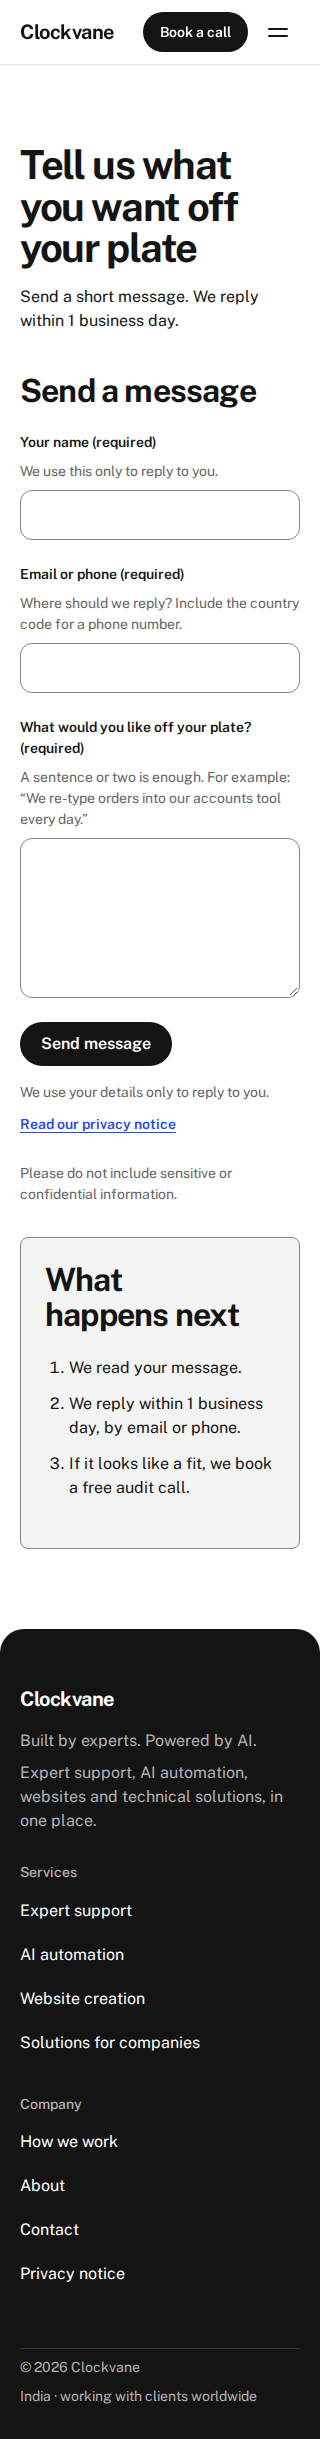
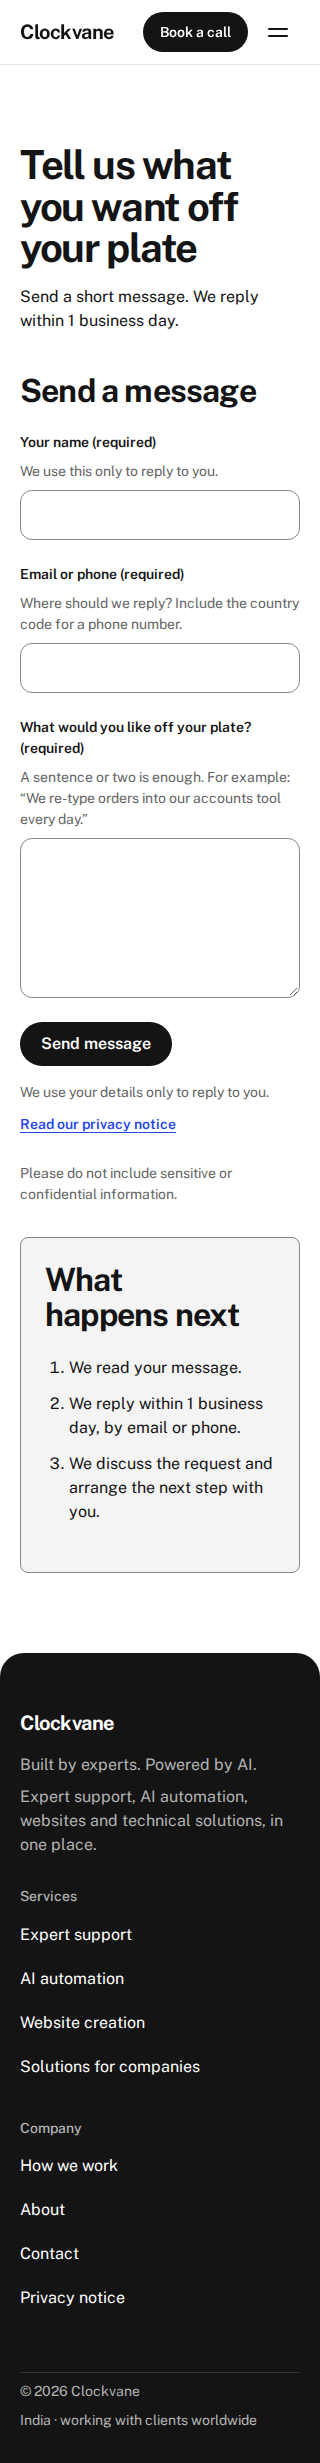
fix(design-system): address visibility coverage and review gaps
Verify hidden-tab pause and in-place resumption, report controller coverage, and guard production output against prototypes and missing motion chunks. Align call wording and document verification and follow-ups.

Agent-Role: sde3

diff --git a/tests/unit/scripts/motion.test.ts b/tests/unit/scripts/motion.test.ts
@@ -28,6 +28,7 @@ const $ = <T extends HTMLElement>(selector: string) =>
 async function load(reduced: boolean) {
   document.documentElement.className = '';
   document.documentElement.removeAttribute('data-paused');
+  document.documentElement.removeAttribute('data-hidden-tab');
   document.body.innerHTML = page;
   vi.stubGlobal(
     'matchMedia',
@@ -57,6 +58,7 @@ describe('motion controller', () => {
   beforeEach(() => vi.useFakeTimers());
   afterEach(() => {
     vi.useRealTimers();
+    vi.restoreAllMocks();
     vi.unstubAllGlobals();
   });
 
@@ -148,5 +150,39 @@ describe('motion controller', () => {
     disc.open = true;
     document.body.click();
     expect(disc.open).toBe(false);
+  });
+
+  it('freezes the demo in a hidden tab and resumes from the same elapsed position', async () => {
+    const hidden = vi.spyOn(document, 'hidden', 'get').mockReturnValue(false);
+    // Use the fake clock for elapsed time as well as interval scheduling.
+    vi.spyOn(performance, 'now').mockImplementation(() => Date.now());
+    const [seen] = await load(false);
+    const root = document.documentElement;
+    const demo = $('[data-demo]');
+    const prompt = $('[data-demo-prompt]');
+    seen?.([{ target: $('[data-demo-stage]'), isIntersecting: true }]);
+    await vi.advanceTimersByTimeAsync(600);
+    expect(prompt.firstElementChild?.textContent).toBe('Pro');
+    const frame = $('[data-demo-stage]').innerHTML;
+
+    hidden.mockReturnValue(true);
+    document.dispatchEvent(new Event('visibilitychange'));
+    expect(root.hasAttribute('data-hidden-tab')).toBe(true);
+    await vi.advanceTimersByTimeAsync(10000);
+    expect($('[data-demo-stage]').innerHTML).toBe(frame);
+    expect(demo.dataset.state).toBe('running');
+    expect($('[data-demo-status]').textContent).toBe('');
+
+    hidden.mockReturnValue(false);
+    document.dispatchEvent(new Event('visibilitychange'));
+    expect(root.hasAttribute('data-hidden-tab')).toBe(false);
+    expect($('[data-demo-stage]').innerHTML).toBe(frame);
+    await vi.advanceTimersByTimeAsync(900);
+    // About 1,500 ms of visible playback: neither restarted nor advanced by the hidden time.
+    expect(prompt.firstElementChild?.textContent).toBe('Prompt ');
+    expect(demo.dataset.state).toBe('running');
+    await vi.advanceTimersByTimeAsync(3100);
+    expect(demo.dataset.state).toBe('done');
+    expect($('[data-demo-status]').textContent).toBe('Finished.');
   });
 });

diff --git a/src/pages/og.png.ts b/src/pages/og.png.ts
@@ -4,21 +4,16 @@ import tokens from '../../docs/design/tokens.json';
 
 /** Original workflow motif, rasterized at build time for social-card compatibility. */
 export async function GET(): Promise<Response> {
-  const {
-    canvas: paper,
-    text: ink,
-    link: brass,
-    surface: paperDeep,
-  } = tokens.color.light;
+  const { canvas, text, link, surface } = tokens.color.light;
   const svg = `<svg xmlns="http://www.w3.org/2000/svg" width="1200" height="630" viewBox="0 0 1200 630">
-    <rect width="1200" height="630" fill="${paper.$value.hex}"/>
-    <path d="M240 315H960" stroke="${brass.$value.hex}" stroke-width="8"/>
-    <g fill="${paperDeep.$value.hex}" stroke="${ink.$value.hex}" stroke-width="6">
+    <rect width="1200" height="630" fill="${canvas.$value.hex}"/>
+    <path d="M240 315H960" stroke="${link.$value.hex}" stroke-width="8"/>
+    <g fill="${surface.$value.hex}" stroke="${text.$value.hex}" stroke-width="6">
       <rect x="160" y="235" width="160" height="160" rx="4"/>
       <circle cx="600" cy="315" r="80"/>
       <rect x="880" y="235" width="160" height="160" rx="4"/>
     </g>
-    <path d="m565 315 25 25 45-50" fill="none" stroke="${brass.$value.hex}" stroke-width="8"/>
+    <path d="m565 315 25 25 45-50" fill="none" stroke="${link.$value.hex}" stroke-width="8"/>
   </svg>`;
   const image = await sharp(Buffer.from(svg)).png().toBuffer();
   return new Response(new Uint8Array(image), {

diff --git a/tests/unit/build/budgets.test.ts b/tests/unit/build/budgets.test.ts
@@ -21,6 +21,10 @@ describe.skipIf(!existsSync(dist))('dist budgets', () => {
   const assets = (html: string, pattern: RegExp) =>
     [...html.matchAll(pattern)].map((m) => join(dist, m[1] ?? ''));
 
+  it('ships no throwaway prototypes under labs/', () => {
+    expect(existsSync(join(dist, 'labs'))).toBe(false);
+  });
+
   it('ships no PNG, JPEG or GIF from the pipeline, and each image ≤ 100 kB', () => {
     const generated = files.filter((file) => file.includes('/_astro/'));
     expect(generated.filter((f) => /\.(png|jpe?g|gif)$/.test(f))).toEqual([]);
@@ -35,9 +39,11 @@ describe.skipIf(!existsSync(dist))('dist budgets', () => {
     const styles = assets(html, /<link[^>]+href="(\/[^"]+\.css)"/g);
     const sum = (list: string[]) => list.reduce((n, f) => n + gz(f), 0);
     expect(sum(scripts), 'P-4 script').toBeLessThanOrEqual(50 * KB);
-    for (const script of scripts.filter((f) =>
+    const motionScripts = scripts.filter((f) =>
       /MotionScript|motion\./.test(f),
-    )) {
+    );
+    expect(motionScripts, 'P-4 one shared motion controller').toHaveLength(1);
+    for (const script of motionScripts) {
       expect(gz(script), 'P-4 motion controller').toBeLessThanOrEqual(5 * KB);
     }
     expect(sum(styles), 'P-5 CSS').toBeLessThanOrEqual(40 * KB);

diff --git a/src/content/how-we-work.ts b/src/content/how-we-work.ts
@@ -2,14 +2,14 @@
 export const howWeWork = {
   title: 'How we work: from first call to handover',
   description:
-    'Four steps from a free audit call to a working system. Fixed-price packages, an optional retainer and clear handover. Book a free audit call.',
+    'See how we arrange expert support and take projects from a first conversation to handover, with scope and pricing agreed before work begins.',
   heading: 'How we work',
   lede: 'You should know what happens next at every stage, and what it costs before we start.',
   processHeading: 'From first call to delivery',
   steps: [
     {
-      title: 'Free audit call.',
-      body: 'We look at one slow process and listen.',
+      title: 'Talk about the need.',
+      body: 'Tell us what you want to achieve and what is getting in the way.',
       output: 'You get an honest view of what is worth automating.',
     },
     {

diff --git a/vitest.config.ts b/vitest.config.ts
@@ -7,9 +7,15 @@ export default getViteConfig(
       include: ['tests/{unit,infra}/**/*.test.ts'],
       coverage: {
         provider: 'v8',
-        include: ['site.config.ts', 'src/lib/**/*.ts'],
+        include: ['site.config.ts', 'src/lib/**/*.ts', 'src/scripts/**/*.ts'],
         reporter: ['text', 'lcov'],
-        thresholds: { perFile: true, lines: 80 },
+        // Report both controllers; retain the existing gates and add one for motion.
+        // Contact's DOM behaviour is covered by Playwright, not the unit suite.
+        thresholds: {
+          'site.config.ts': { perFile: true, lines: 80 },
+          'src/lib/**/*.ts': { perFile: true, lines: 80 },
+          'src/scripts/motion.ts': { perFile: true, lines: 80 },
+        },
       },
     },
   }),

diff --git a/src/content/sections.ts b/src/content/sections.ts
@@ -5,14 +5,17 @@ export const closingCta = {
 };
 export const helpChoose = {
   heading: 'Not sure which one you need?',
-  body: 'Most people are not. Book a free audit call. We will look at one slow process and tell you what we would automate.',
+  body: 'Tell us what you are trying to do. You do not need to choose a tool or write a technical brief first.',
 };
 export const sectionLabels = {
   breadcrumb: 'Breadcrumb',
   typicalWork: 'Typical work',
 };
 export const homeProcess = [
-  { title: 'Talk.', body: 'A free audit call about one slow process.' },
+  {
+    title: 'Talk.',
+    body: 'Tell us what you want to achieve and what is getting in the way.',
+  },
   {
     title: 'Scope.',
     body: 'We write down what we will build, for how much and by when.',

diff --git a/src/content/contact.ts b/src/content/contact.ts
@@ -1,7 +1,7 @@
 export const contactCopy = {
   title: 'Contact',
   description:
-    'Book a free audit call or send a short message about the work you want off your plate. We reply within 1 business day.',
+    'Describe the problem or the work you have in mind. We reply within 1 business day.',
   heading: 'Tell us what you want off your plate',
   intro: 'Send a short message. We reply within 1 business day.',
   formHeading: 'Send a message',
@@ -38,7 +38,7 @@ export const contactCopy = {
   steps: [
     'We read your message.',
     'We reply within 1 business day, by email or phone.',
-    'If it looks like a fit, we book a free audit call.',
+    'We discuss the request and arrange the next step with you.',
   ],
   thanks: {
     title: 'Enquiry sent',

diff --git a/src/content/site.ts b/src/content/site.ts
@@ -7,5 +7,5 @@ export const footerLocation = 'India · working with clients worldwide';
 export const homeSeo = {
   title: `Automate repetitive business work | ${siteConfig.brand}`,
   description:
-    'We take over copy-paste chores, report building and approval chasing, so your team can do real work. Book a free audit call.',
+    'Get expert help, AI automation, websites and technical solutions in one place. Tell us what you need and book a call.',
 };

diff --git a/docs/engineering/evidence/126-design-system-v3.md b/docs/engineering/evidence/126-design-system-v3.md
@@ -4,13 +4,54 @@ Verified locally on 2026-11-04, resuming `sde3/126-design-system-v3`. The site s
 pages use the approved v3 tokens. New page building blocks are exercised in an isolated fixture;
 Home and Services assembly remain #58 and #59. Neither fixture route is published in `dist/`.
 
-## Checks
+## Tech-lead review fixes — 2026-11-05
+
+Review target: `f3acedbd21ca9e219a3ebf787baaeafeb684cd8d`, PR #135.
+
+- Hidden-tab regression: the unit test overrides `document.hidden`, dispatches `visibilitychange`,
+  checks `data-hidden-tab`, and freezes a partially typed demo for 10 seconds. On becoming visible,
+  the attribute clears, playback continues from its previous position, and finishes normally.
+  Two temporary mutations each failed this test: removing the hidden guard advanced the demo while
+  hidden; retaining the old timer timestamp skipped ahead on resume. Both mutations were reverted;
+  production `motion.ts` is unchanged. This is unit evidence, not a browser visibility simulation.
+- Coverage now includes `src/scripts/**`. Motion line coverage is **88.95%**, branches **70.58%**.
+  All-file line coverage is **72.36%**: `contact.ts` reports **0% unit coverage** (its DOM journeys
+  run in Playwright). The existing per-file 80% gates for `site.config.ts` and `src/lib/**` remain,
+  with a new per-file 80% gate for `motion.ts`. The earlier 100% figure excluded both controllers.
+- Artifact checks now reject any `dist/labs/` directory and require exactly one matching motion
+  script per page before checking its size. Renderer ownership is documented as permanent in
+  `page-components.md`; stale legacy-token wording and OG variable aliases are removed.
+- Removed the old free-audit claims using v3 copy; Contact's title reads `siteConfig.primaryCta.label`.
+  `rg -n -i 'free audit' src` returns no matches. Contact screenshots below are refreshed at
+  320/1280 px and visually checked; component screenshots remain the original implementation evidence.
+
+| Command | Result |
+| --- | --- |
+| `npm run lint`, `npm run check` | Pass; zero diagnostics. Final coverage-config edit also checked with `tsc --noEmit` and Prettier |
+| `npm run build` | 8 pages, 866 ms warm production build; this does not measure cold image encoding |
+| `npm test` | 156 pass across 16 files, including 36 production artifact checks and the hidden-tab test |
+| `PORT=4412 npm run test:e2e` | 57 pass |
+| `PORT=4412 npm run test:components` | 15 pass |
+| `DIST_DIR=.agentops-scratch/components-dist npm run test:dist` | 42 pass |
+
+Gzip -9: motion **1,959 B / 5,000 B**; contact enhancement **7,411 B / 15,000 B**;
+Contact total scripts **9,370 B / 50,000 B**. No styles or dependencies changed in this fix.
+Both Playwright servers and browsers exited after their runs. Local Lighthouse was not rerun;
+[CI run 41933668518](https://github.com/clockvane/website/actions/runs/41933668518) passed build,
+lint, typecheck, unit and Lighthouse on the reviewed `f3acedb`. New commits require fresh CI/reviews.
+
+Nonblocking follow-ups from the latest review remain separate: finding 2 asks the EM for a required
+Playwright CI job; finding 3 assigns cold image-build timing/memory and cache assessment to Home
+assembly (#58, now #127). Finding 10's elevation scale needs the designer's token definition.
+No new CI job, page assembly or visual token scale is introduced by this review fix.
+
+## Initial implementation checks
 
 | Command | Result |
 | --- | --- |
 | `npm run lint` | ESLint, Stylelint token rules and Prettier pass |
 | `npm run check` | Astro and TypeScript pass; 0 errors, warnings or hints |
-| `npm test` | 154 tests pass; reported line coverage 100% |
+| `npm test` | 154 tests pass; reported line coverage 100% for the then-configured scope, excluding `src/scripts/**` |
 | `npm run build` | 8 static pages; final warm build 794 ms |
 | `npm run test:e2e` | 57 pass, including axe, contact success/failure/native POST, keyboard, 320 px reflow, enlarged text, forced colours and reduced motion |
 | `npm run test:components` | 15 pass, including pause/replay, tab keyboard navigation, off-screen pause, runtime reduced-motion changes, no-JS reading and responsive images |
@@ -65,7 +106,7 @@ detection (`EROFS` under Windows AppData). A scratch wrapper launched the instal
 Playwright Chromium with `--remote-debugging-port=9222`, then ran the same LHCI autorun/config
 with `--collect.settings.port=9222`, closing Chromium in `finally`. This changes only how the
 browser starts; audit settings, three-run collection and assertions are unchanged. The preview
-used port 4411. CI continues to use the normal `lighthouse` job; remote results are pending PR CI.
+used port 4411. CI uses the normal `lighthouse` job; its run on `f3acedb` passed (linked above).
 
 The 404 and contact result pages remain intentionally noindex and are covered by the browser
 suite, rather than the indexable-page Lighthouse SEO assertion.

diff --git a/docs/engineering/page-components.md b/docs/engineering/page-components.md
@@ -55,5 +55,6 @@ The v3 fixture adds tab/demo keyboard journeys, marquee pause, reduced-motion an
 image output checks and 320/768/1440 px screenshots (`.agentops-scratch/126-components-*.png`).
 Run `DIST_DIR=.agentops-scratch/components-dist npm run test:dist` to apply the NFR size and CSP
 checks to the image-rich fixture as well as the existing production routes. Example sources
-are original screens under `src/assets/examples/`; the retained renderer under
-`docs/design/v3/prototype-src/` regenerates those PNG sources, never public runtime assets.
+are original screens under `src/assets/examples/`. `docs/design/v3/prototype-src/` is the permanent
+home of their screen definitions and PNG renderer, despite its historical name. It regenerates
+those PNG sources, never public runtime assets; do not delete it during prototype cleanup.
